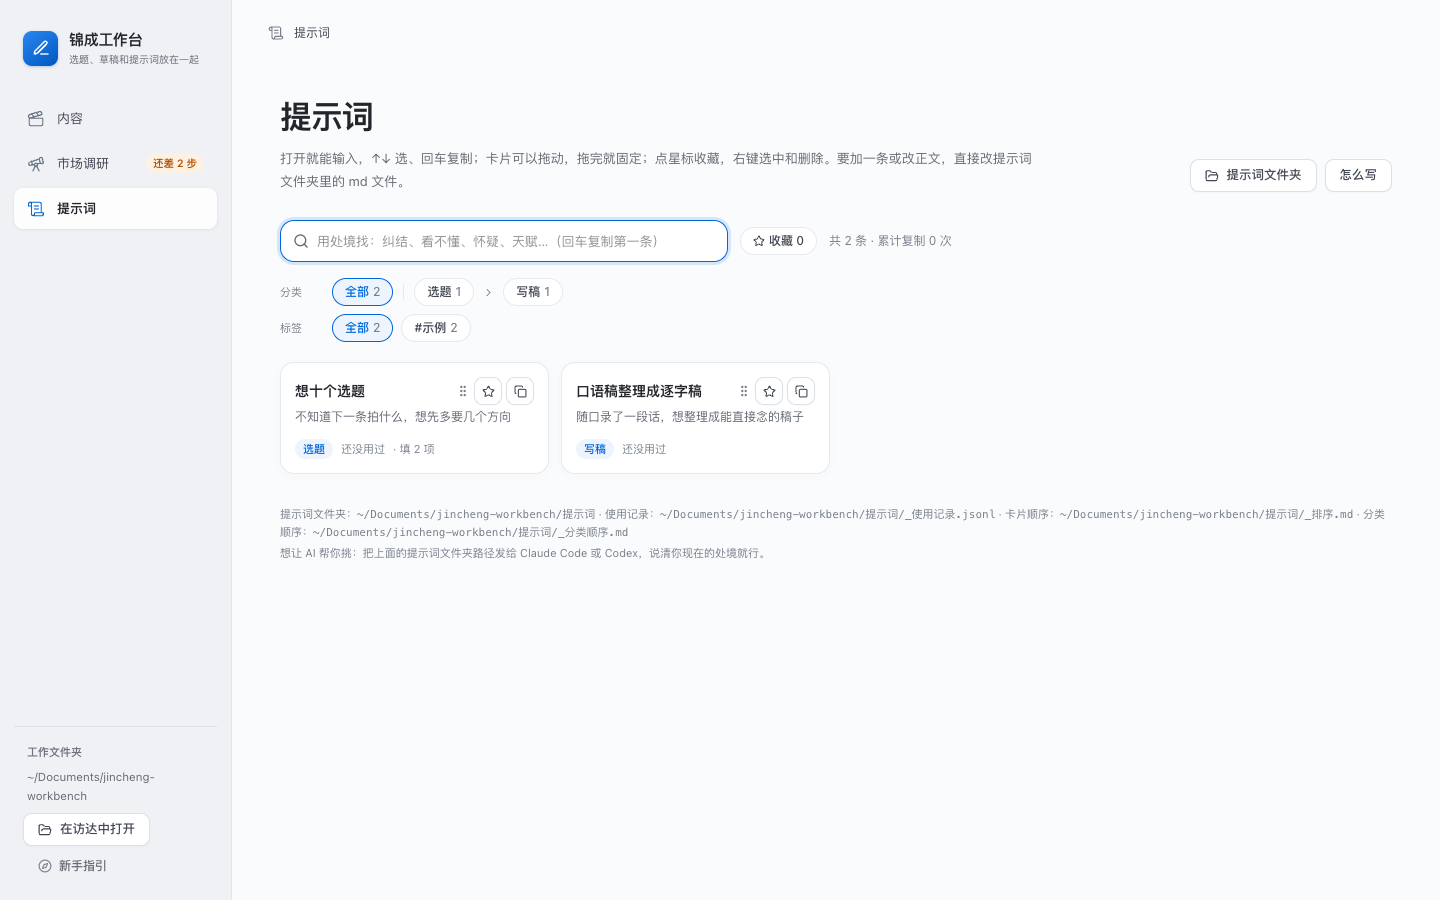
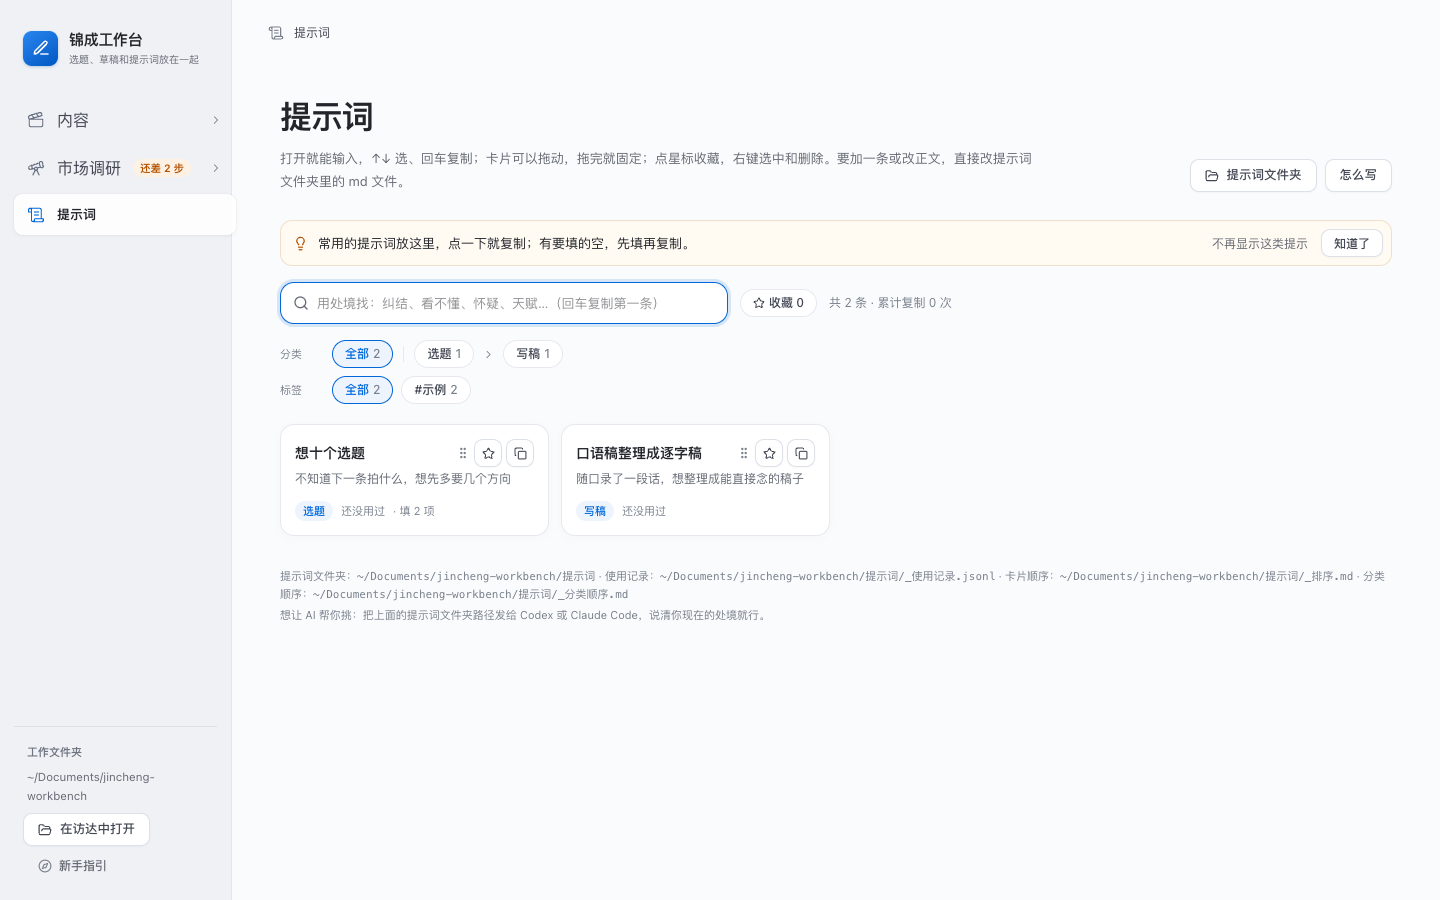
README 截图照新的左边菜单重拍（全新临时家目录、示例数据、1440×900）

diff --git a/README.md b/README.md
@@ -21,7 +21,7 @@
 
 ### 选题和稿子
 
-![「内容」页：顶部是新手指引的开场卡和清单，下面是选题列表](docs/images/content.png)
+![「选题」页：左边菜单里「内容」展开着（选题、在做、封面），顶部是新手指引的开场卡和清单，下面是选题列表](docs/images/content.png)
 
 「内容」在左边菜单里点一下展开，下面有「选题」「在做」「封面」三项（封面见下面「封面」一节）：
 
